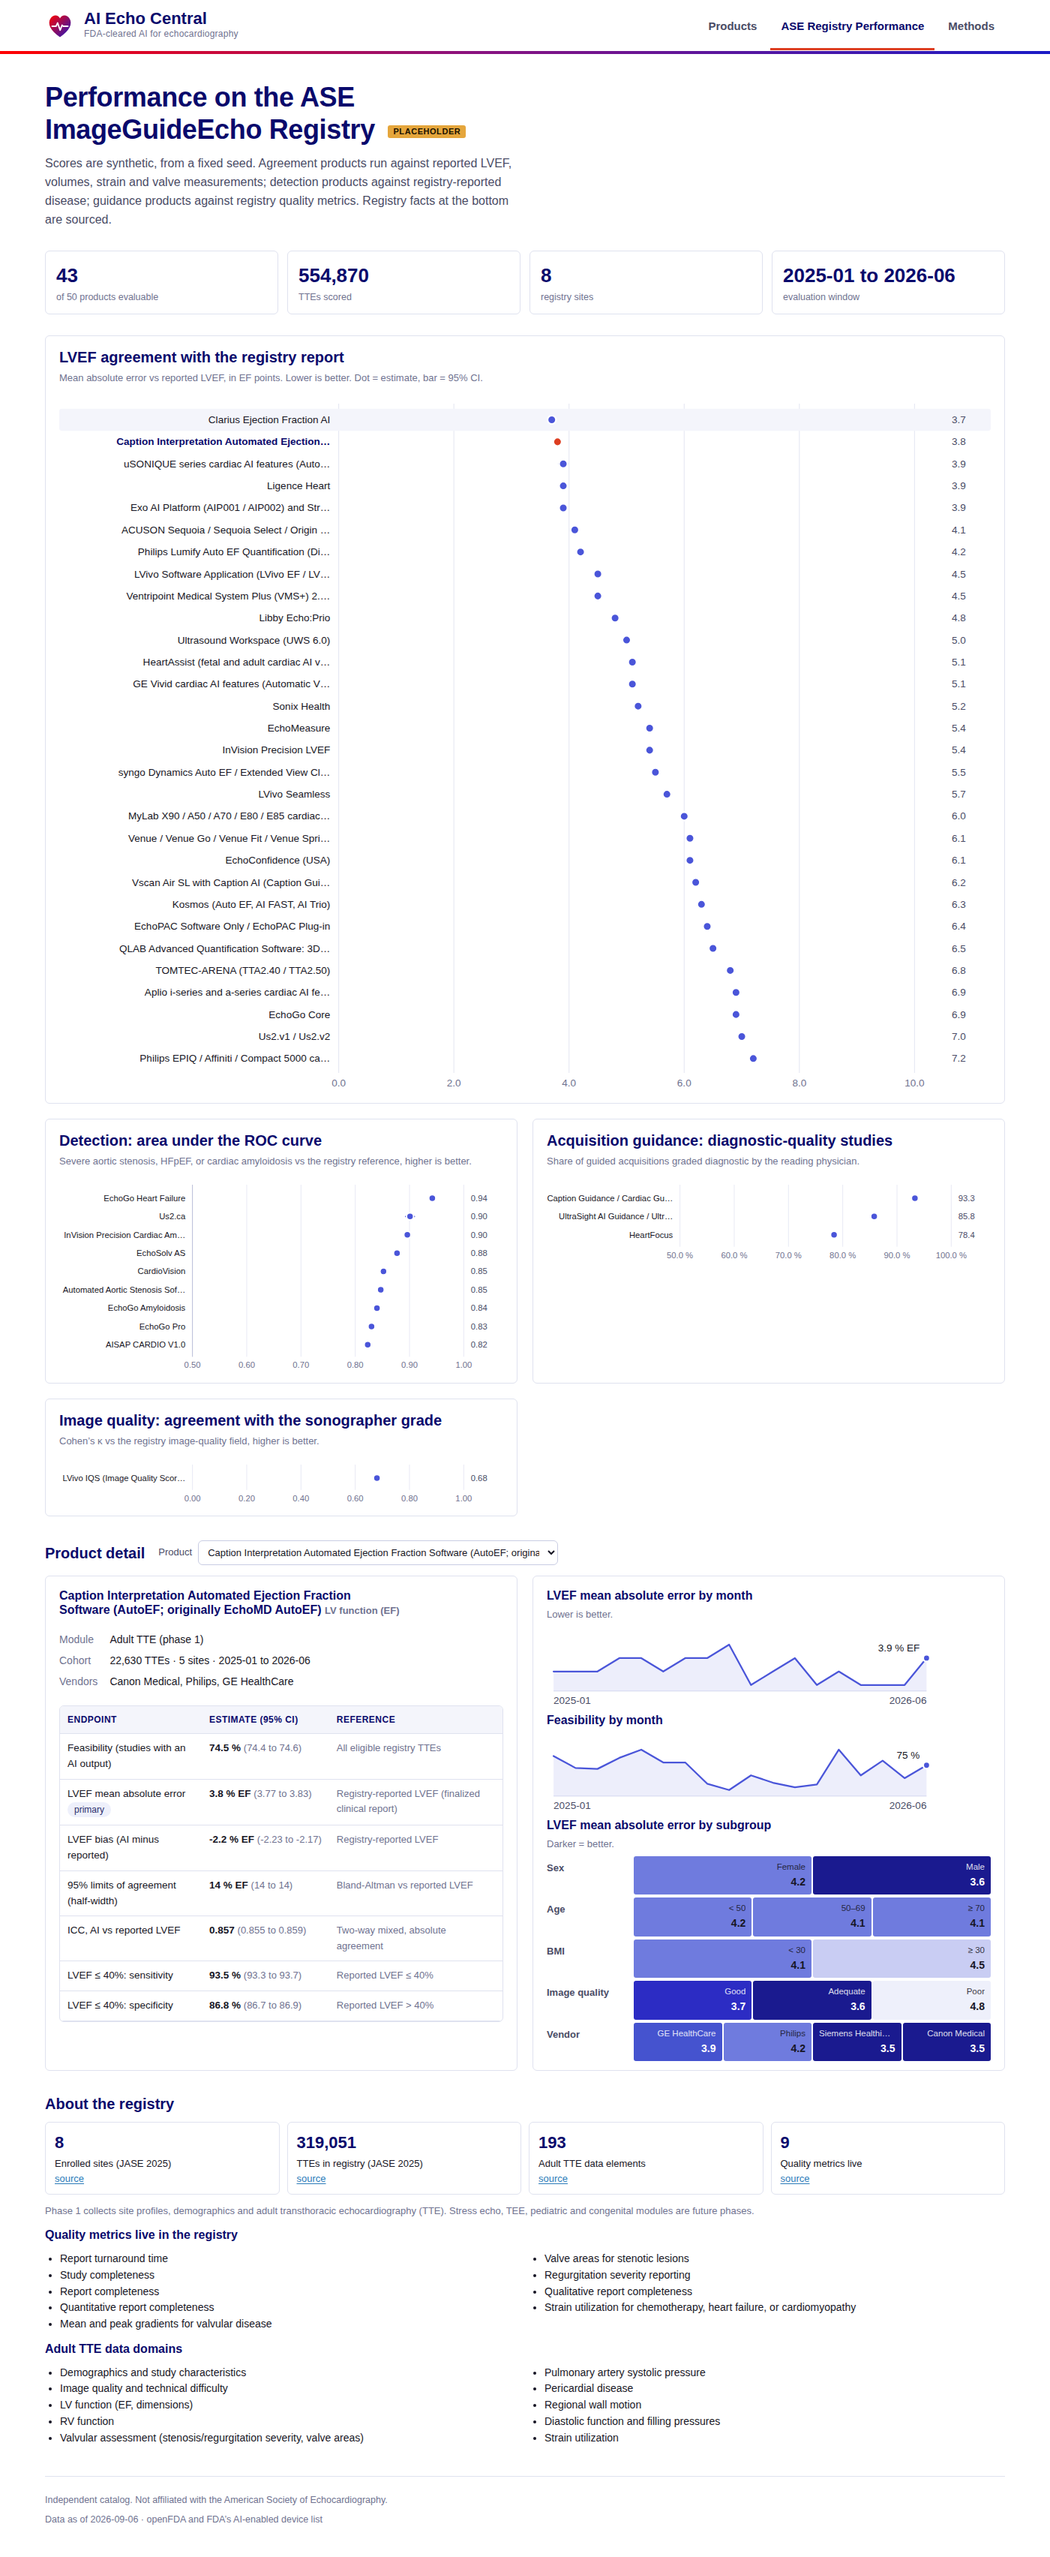
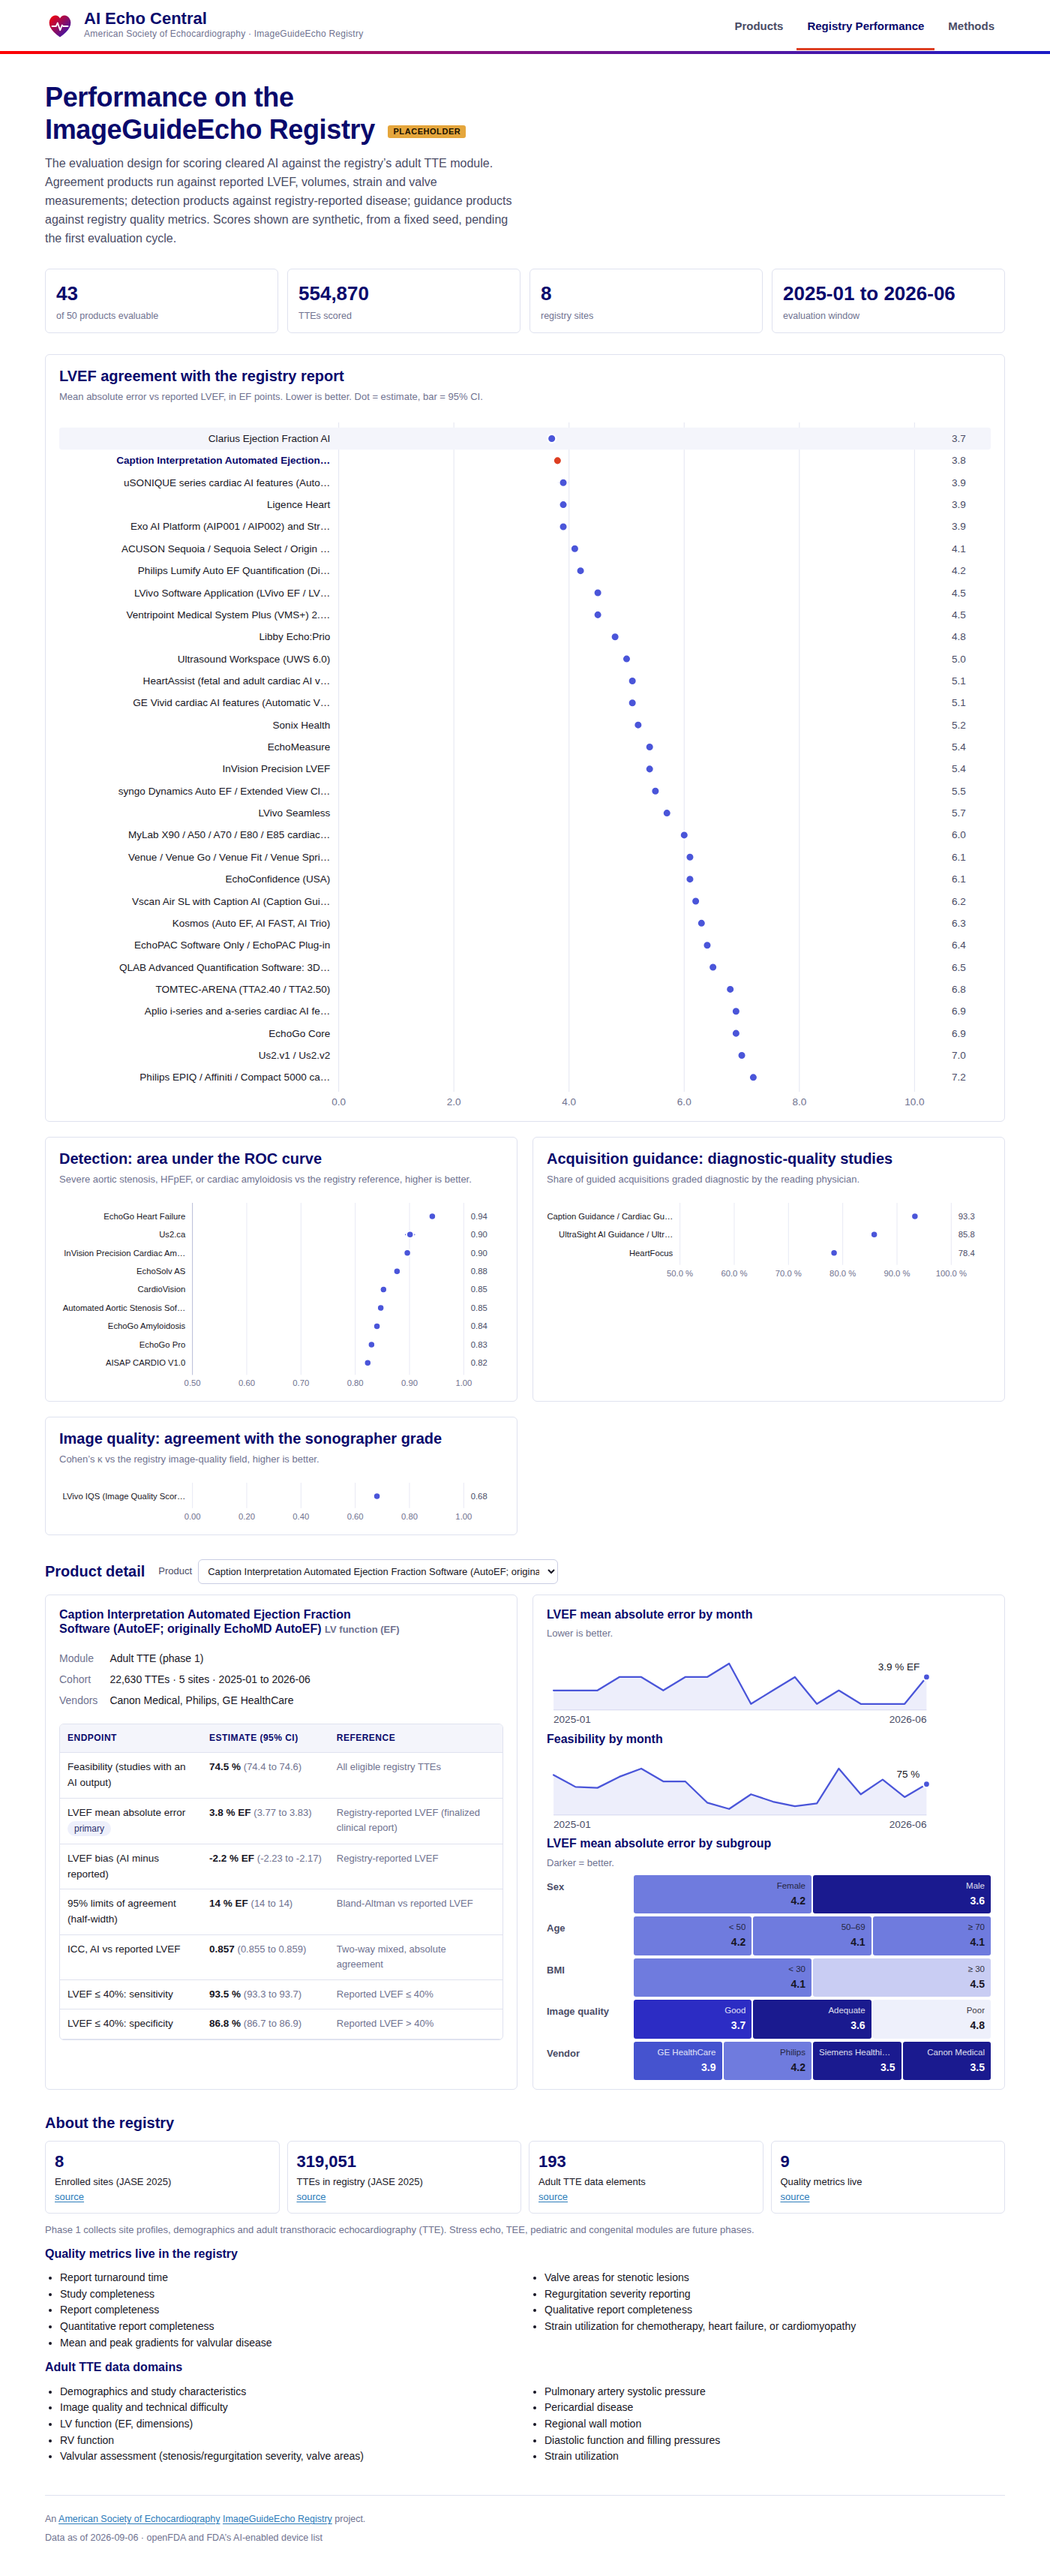
Present the catalog as an ASE ImageGuideEcho Registry project
Masthead, footer, README and meta description now name the American Society
of Echocardiography and the ImageGuideEcho Registry, with links to both. The
registry tab reads as the registry's own evaluation design rather than an
outside mockup; its scores stay marked synthetic until the first evaluation
cycle. Tab and panel headings drop the now-redundant ASE prefix.

Claude-Session: https://claude.ai/code/session_01XwTTa6SWNrNXUkyMUL8ExW

diff --git a/dist/ai-echo-central.html b/dist/ai-echo-central.html
@@ -4,7 +4,7 @@
 <meta charset="utf-8">
 <meta name="viewport" content="width=device-width, initial-scale=1">
 <title>AI Echo Central</title>
-<meta name="description" content="Catalog of FDA-cleared AI echocardiography products: clearance history, performance evidence quoted from FDA summaries, training and validation sample sizes, and linked publications.">
+<meta name="description" content="An American Society of Echocardiography ImageGuideEcho Registry project. Catalog of FDA-cleared AI echocardiography products: clearance history, performance evidence quoted from FDA summaries, training and validation sample sizes, and linked publications.">
 <link rel="preconnect" href="https://fonts.googleapis.com">
 <link rel="preconnect" href="https://fonts.gstatic.com" crossorigin>
 <link rel="stylesheet" href="https://fonts.googleapis.com/css2?family=Figtree:wght@400;600;700;800&family=Inter:wght@400;500;600&display=swap">
@@ -335,11 +335,11 @@ blockquote.q { margin: 0; padding: 10px 14px; border-left: 3px solid var(--indig
         <path d="M20 35.5C7.5 27 2.5 17.5 7.6 10.2 11.3 5 17.6 5.6 20 10.6 22.4 5.6 28.7 5 32.4 10.2 37.5 17.5 32.5 27 20 35.5Z" fill="url(#ase-g)"/>
         <path d="M9.5 21h5.2l2.1-4.4 3.4 9.6 2.6-6.6 1.6 1.4h6.1" fill="none" stroke="#fff" stroke-width="1.9" stroke-linejoin="round" stroke-linecap="round"/>
       </svg>
-      <span class="brand-text"><span class="brand-name">AI Echo Central</span><span class="brand-sub">FDA-cleared AI for echocardiography</span></span>
+      <span class="brand-text"><span class="brand-name">AI Echo Central</span><span class="brand-sub">American Society of Echocardiography · ImageGuideEcho Registry</span></span>
     </a>
     <nav class="tabs" aria-label="Sections">
       <a href="#products" data-tab="products" aria-current="page">Products</a>
-      <a href="#registry" data-tab="registry"><span class="long">ASE </span>Registry<span class="long"> Performance</span></a>
+      <a href="#registry" data-tab="registry">Registry<span class="long"> Performance</span></a>
       <a href="#methods" data-tab="methods">Methods</a>
     </nav>
   </div>
@@ -393,8 +393,8 @@ blockquote.q { margin: 0; padding: 10px 14px; border-left: 3px solid var(--indig
   <!-- ============ REGISTRY ============ -->
   <section id="registry" class="tab-panel" aria-labelledby="registry-h" hidden>
     <div class="page-head">
-      <h1 id="registry-h">Performance on the ASE ImageGuideEcho Registry <span class="placeholder-tag">Placeholder</span></h1>
-      <p class="lede">Scores are synthetic, from a fixed seed. Agreement products run against reported LVEF, volumes, strain and valve measurements; detection products against registry-reported disease; guidance products against registry quality metrics. Registry facts at the bottom are sourced.</p>
+      <h1 id="registry-h">Performance on the ImageGuideEcho Registry <span class="placeholder-tag">Placeholder</span></h1>
+      <p class="lede">The evaluation design for scoring cleared AI against the registry’s adult TTE module. Agreement products run against reported LVEF, volumes, strain and valve measurements; detection products against registry-reported disease; guidance products against registry quality metrics. Scores shown are synthetic, from a fixed seed, pending the first evaluation cycle.</p>
     </div>
     <div class="kpis" id="reg-kpis"></div>
     <div class="reg-layout" id="reg-charts"></div>
@@ -422,7 +422,7 @@ blockquote.q { margin: 0; padding: 10px 14px; border-left: 3px solid var(--indig
   <section id="methods" class="tab-panel" aria-labelledby="methods-h" hidden>
     <div class="page-head">
       <h1 id="methods-h">Methods</h1>
-      <p class="lede">How products were found, what counts as an AI echo product, and what each verification level means.</p>
+      <p class="lede">How products were found, what counts as an AI echo product, and what each verification level means. Maintained for the ImageGuideEcho Registry.</p>
     </div>
     <div class="prose">
       <h2>Inclusion</h2>
@@ -487,7 +487,7 @@ blockquote.q { margin: 0; padding: 10px 14px; border-left: 3px solid var(--indig
 <div id="tooltip" class="tooltip" role="tooltip" hidden></div>
 
 <footer class="site-footer wrap">
-  <span>Independent catalog. Not affiliated with the American Society of Echocardiography.</span>
+  <span>An <a href="https://www.asecho.org/">American Society of Echocardiography</a> <a href="https://www.asecho.org/practice-clinical-resources/imageguideecho-registry/">ImageGuideEcho Registry</a> project.</span>
   <span id="footer-build"></span>
 </footer>
 
@@ -38807,7 +38807,7 @@ window.AIECHO_REGISTRY = {
         ${f.n_papers ? `<ol class="papers">${f.papers.map((p) => `<li><span class="t">${p.doi ? `<a href="https://doi.org/${esc(p.doi)}" rel="noopener">${esc(p.title)}</a>` : p.url ? `<a href="${esc(p.url)}" rel="noopener">${esc(p.title)}</a>` : esc(p.title)}</span><span class="m">${[p.first_author ? esc(p.first_author) + ' et al.' : '', p.journal ? esc(p.journal) : '', p.year || ''].filter(Boolean).join(' · ')}${p.pmid ? ` · <a href="https://pubmed.ncbi.nlm.nih.gov/${esc(p.pmid)}/" rel="noopener">PMID ${esc(p.pmid)}</a>` : ''} · <span class="chip">${esc(p.relation)}</span> ${vl(p.verification)}</span>${p.key_result ? `<span>${esc(p.key_result)}${p.n_subjects ? ` (n = ${fmtN(p.n_subjects)})` : ''}</span>` : ''}</li>`).join('')}</ol>` : '<p class="notice">None found.</p>'}
       </section>
       ${(f.clinical_trials || []).length ? `<section class="psec"><h3>Registered trials</h3><ul class="papers">${f.clinical_trials.map((t) => `<li><span class="t"><a href="${esc(t.url)}" rel="noopener">${esc(t.nct_id)}</a> ${esc(t.title)}</span><span class="m">${esc(t.status || '')}</span></li>`).join('')}</ul></section>` : ''}
-      <section class="psec"><h3>ASE registry performance${ptag()}</h3>
+      <section class="psec"><h3>Registry performance${ptag()}</h3>
         ${reg && reg.evaluable ? `<dl class="kv"><dt>Cohort</dt><dd class="num">${fmtN(reg.cohort.n_studies)} TTEs · ${reg.cohort.n_sites} sites · ${esc(reg.cohort.period)}</dd>${primaryReg ? `<dt>${esc(primaryReg.label)}</dt><dd class="num">${primaryReg.value}${primaryReg.unit ? ' ' + esc(primaryReg.unit) : ''} (95% CI ${primaryReg.ci.low} to ${primaryReg.ci.high})</dd>` : ''}<dt>Feasibility</dt><dd class="num">${(() => { const fe = reg.endpoints.find((e) => e.id === 'feasibility'); return fe ? fe.value + '%' : '—'; })()}</dd></dl><p class="notice"><a href="#registry/${esc(f.id)}" data-reg="${esc(f.id)}">Open the registry tab for this product.</a></p>` : `<p class="not-evaluable">${reg ? esc(reg.reason) : 'Not evaluated.'}</p>`}
       </section>
       ${(f.open_questions || []).length ? `<section class="psec"><h3>Open questions</h3><ul class="oq">${f.open_questions.map((q) => `<li>${esc(q)}</li>`).join('')}</ul></section>` : ''}

diff --git a/index.html b/index.html
@@ -4,7 +4,7 @@
 <meta charset="utf-8">
 <meta name="viewport" content="width=device-width, initial-scale=1">
 <title>AI Echo Central</title>
-<meta name="description" content="Catalog of FDA-cleared AI echocardiography products: clearance history, performance evidence quoted from FDA summaries, training and validation sample sizes, and linked publications.">
+<meta name="description" content="An American Society of Echocardiography ImageGuideEcho Registry project. Catalog of FDA-cleared AI echocardiography products: clearance history, performance evidence quoted from FDA summaries, training and validation sample sizes, and linked publications.">
 <link rel="preconnect" href="https://fonts.googleapis.com">
 <link rel="preconnect" href="https://fonts.gstatic.com" crossorigin>
 <link rel="stylesheet" href="https://fonts.googleapis.com/css2?family=Figtree:wght@400;600;700;800&family=Inter:wght@400;500;600&display=swap">
@@ -21,11 +21,11 @@
         <path d="M20 35.5C7.5 27 2.5 17.5 7.6 10.2 11.3 5 17.6 5.6 20 10.6 22.4 5.6 28.7 5 32.4 10.2 37.5 17.5 32.5 27 20 35.5Z" fill="url(#ase-g)"/>
         <path d="M9.5 21h5.2l2.1-4.4 3.4 9.6 2.6-6.6 1.6 1.4h6.1" fill="none" stroke="#fff" stroke-width="1.9" stroke-linejoin="round" stroke-linecap="round"/>
       </svg>
-      <span class="brand-text"><span class="brand-name">AI Echo Central</span><span class="brand-sub">FDA-cleared AI for echocardiography</span></span>
+      <span class="brand-text"><span class="brand-name">AI Echo Central</span><span class="brand-sub">American Society of Echocardiography · ImageGuideEcho Registry</span></span>
     </a>
     <nav class="tabs" aria-label="Sections">
       <a href="#products" data-tab="products" aria-current="page">Products</a>
-      <a href="#registry" data-tab="registry"><span class="long">ASE </span>Registry<span class="long"> Performance</span></a>
+      <a href="#registry" data-tab="registry">Registry<span class="long"> Performance</span></a>
       <a href="#methods" data-tab="methods">Methods</a>
     </nav>
   </div>
@@ -79,8 +79,8 @@
   <!-- ============ REGISTRY ============ -->
   <section id="registry" class="tab-panel" aria-labelledby="registry-h" hidden>
     <div class="page-head">
-      <h1 id="registry-h">Performance on the ASE ImageGuideEcho Registry <span class="placeholder-tag">Placeholder</span></h1>
-      <p class="lede">Scores are synthetic, from a fixed seed. Agreement products run against reported LVEF, volumes, strain and valve measurements; detection products against registry-reported disease; guidance products against registry quality metrics. Registry facts at the bottom are sourced.</p>
+      <h1 id="registry-h">Performance on the ImageGuideEcho Registry <span class="placeholder-tag">Placeholder</span></h1>
+      <p class="lede">The evaluation design for scoring cleared AI against the registry’s adult TTE module. Agreement products run against reported LVEF, volumes, strain and valve measurements; detection products against registry-reported disease; guidance products against registry quality metrics. Scores shown are synthetic, from a fixed seed, pending the first evaluation cycle.</p>
     </div>
     <div class="kpis" id="reg-kpis"></div>
     <div class="reg-layout" id="reg-charts"></div>
@@ -108,7 +108,7 @@
   <section id="methods" class="tab-panel" aria-labelledby="methods-h" hidden>
     <div class="page-head">
       <h1 id="methods-h">Methods</h1>
-      <p class="lede">How products were found, what counts as an AI echo product, and what each verification level means.</p>
+      <p class="lede">How products were found, what counts as an AI echo product, and what each verification level means. Maintained for the ImageGuideEcho Registry.</p>
     </div>
     <div class="prose">
       <h2>Inclusion</h2>
@@ -173,7 +173,7 @@
 <div id="tooltip" class="tooltip" role="tooltip" hidden></div>
 
 <footer class="site-footer wrap">
-  <span>Independent catalog. Not affiliated with the American Society of Echocardiography.</span>
+  <span>An <a href="https://www.asecho.org/">American Society of Echocardiography</a> <a href="https://www.asecho.org/practice-clinical-resources/imageguideecho-registry/">ImageGuideEcho Registry</a> project.</span>
   <span id="footer-build"></span>
 </footer>
 

diff --git a/assets/app.js b/assets/app.js
@@ -215,7 +215,7 @@
         ${f.n_papers ? `<ol class="papers">${f.papers.map((p) => `<li><span class="t">${p.doi ? `<a href="https://doi.org/${esc(p.doi)}" rel="noopener">${esc(p.title)}</a>` : p.url ? `<a href="${esc(p.url)}" rel="noopener">${esc(p.title)}</a>` : esc(p.title)}</span><span class="m">${[p.first_author ? esc(p.first_author) + ' et al.' : '', p.journal ? esc(p.journal) : '', p.year || ''].filter(Boolean).join(' · ')}${p.pmid ? ` · <a href="https://pubmed.ncbi.nlm.nih.gov/${esc(p.pmid)}/" rel="noopener">PMID ${esc(p.pmid)}</a>` : ''} · <span class="chip">${esc(p.relation)}</span> ${vl(p.verification)}</span>${p.key_result ? `<span>${esc(p.key_result)}${p.n_subjects ? ` (n = ${fmtN(p.n_subjects)})` : ''}</span>` : ''}</li>`).join('')}</ol>` : '<p class="notice">None found.</p>'}
       </section>
       ${(f.clinical_trials || []).length ? `<section class="psec"><h3>Registered trials</h3><ul class="papers">${f.clinical_trials.map((t) => `<li><span class="t"><a href="${esc(t.url)}" rel="noopener">${esc(t.nct_id)}</a> ${esc(t.title)}</span><span class="m">${esc(t.status || '')}</span></li>`).join('')}</ul></section>` : ''}
-      <section class="psec"><h3>ASE registry performance${ptag()}</h3>
+      <section class="psec"><h3>Registry performance${ptag()}</h3>
         ${reg && reg.evaluable ? `<dl class="kv"><dt>Cohort</dt><dd class="num">${fmtN(reg.cohort.n_studies)} TTEs · ${reg.cohort.n_sites} sites · ${esc(reg.cohort.period)}</dd>${primaryReg ? `<dt>${esc(primaryReg.label)}</dt><dd class="num">${primaryReg.value}${primaryReg.unit ? ' ' + esc(primaryReg.unit) : ''} (95% CI ${primaryReg.ci.low} to ${primaryReg.ci.high})</dd>` : ''}<dt>Feasibility</dt><dd class="num">${(() => { const fe = reg.endpoints.find((e) => e.id === 'feasibility'); return fe ? fe.value + '%' : '—'; })()}</dd></dl><p class="notice"><a href="#registry/${esc(f.id)}" data-reg="${esc(f.id)}">Open the registry tab for this product.</a></p>` : `<p class="not-evaluable">${reg ? esc(reg.reason) : 'Not evaluated.'}</p>`}
       </section>
       ${(f.open_questions || []).length ? `<section class="psec"><h3>Open questions</h3><ul class="oq">${f.open_questions.map((q) => `<li>${esc(q)}</li>`).join('')}</ul></section>` : ''}

diff --git a/README.md b/README.md
@@ -1,12 +1,12 @@
 # AI Echo Central
 
-Catalog of FDA-cleared AI echocardiography products, styled on the American Society of Echocardiography identity, with a second tab that shows how each product would be scored on the ASE ImageGuideEcho Registry.
+An American Society of Echocardiography [ImageGuideEcho Registry](https://www.asecho.org/practice-clinical-resources/imageguideecho-registry/) project. Catalog of FDA-cleared AI echocardiography products, with a second tab that scores each product against the registry’s adult TTE module.
 
 - **Products tab.** Every 510(k) and De Novo on FDA’s AI-enabled device list that operates on cardiac ultrasound. Each product carries its clearance history, indications, the performance metrics reported in its FDA summary (with verbatim quotes and page numbers), training and validation sample sizes where disclosed, prior validations, resolved publications, and registered trials.
-- **ASE Registry Performance tab.** Synthetic scores from a fixed seed. The layout mirrors the registry’s adult TTE data elements and quality metrics so a real evaluation can drop in later.
+- **Registry Performance tab.** The evaluation design, wired to the registry’s adult TTE data elements and quality metrics. Scores are synthetic from a fixed seed until the first evaluation cycle runs.
 - **Methods tab.** Inclusion and exclusion rules, sources, verification levels, product codes, and excluded clearances.
 
-Independent catalog, not affiliated with the American Society of Echocardiography.
+
 
 ## Deploy
 
